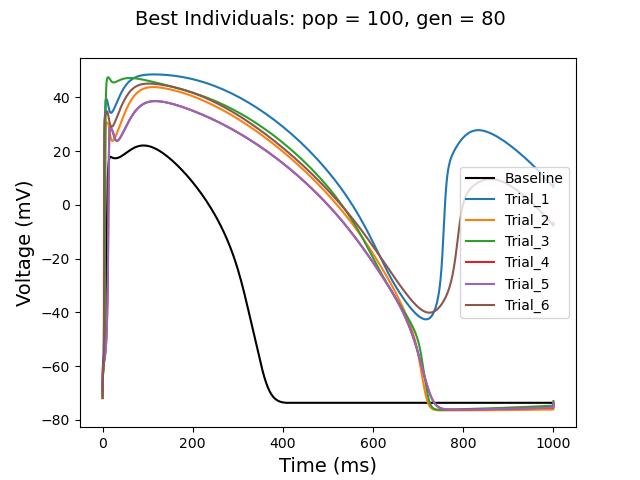
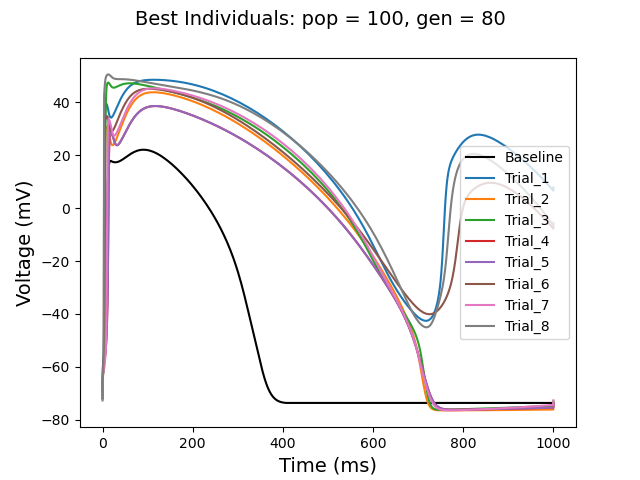
newind

diff --git a/plot_GA.py b/plot_GA.py
@@ -48,6 +48,18 @@ ind_6 = ind_6.to_dict('index')
 t6, v6 = plot_GA(ind_6)
 plt.plot(t6, v6, label = 'Trial_6')
 
+ind_7 = pd.read_excel('Best_ind_7.xlsx')
+ind_7 = ind_7.to_dict('index')
+
+t7, v7 = plot_GA(ind_7)
+plt.plot(t7, v7, label = 'Trial_7')
+
+ind_8 = pd.read_excel('Best_ind_8.xlsx')
+ind_8 = ind_8.to_dict('index')
+
+t8, v8 = plot_GA(ind_8)
+plt.plot(t8, v8, label = 'Trial_8')
+
 plt.legend()
 plt.ylabel('Voltage (mV)', fontsize=14)
 plt.xlabel('Time (ms)', fontsize=14)
@@ -80,8 +92,16 @@ best_err_5 = list(err_5['Best Error'])
 plt.plot(gen, best_err_5,'*', label = 'Trial_5')
 
 err_6 = pd.read_excel('Errors_6.xlsx')
-best_err_6 = list(err_5['Best Error'])
+best_err_6 = list(err_6['Best Error'])
 plt.plot(gen, best_err_6,'*', label = 'Trial_6')
+
+err_7 = pd.read_excel('Errors_7.xlsx')
+best_err_7 = list(err_7['Best Error'])
+plt.plot(gen, best_err_7,'*', label = 'Trial_7')
+
+err_8 = pd.read_excel('Errors_8.xlsx')
+best_err_8 = list(err_8['Best Error'])
+plt.plot(gen, best_err_8,'*', label = 'Trial_8')
 
 plt.legend()
 plt.ylabel('Error', fontsize=14)
